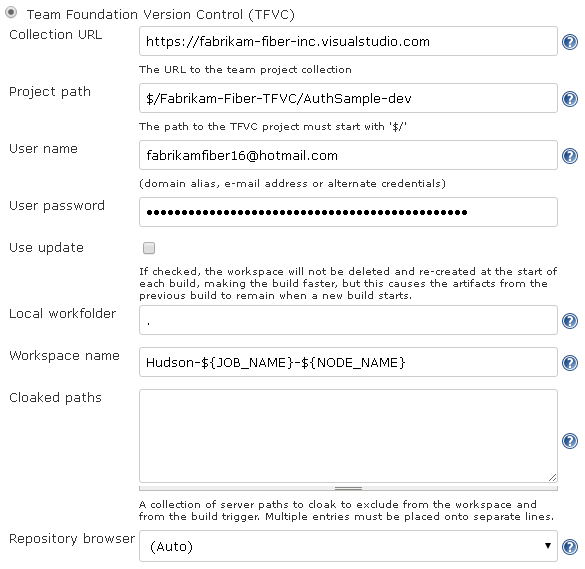
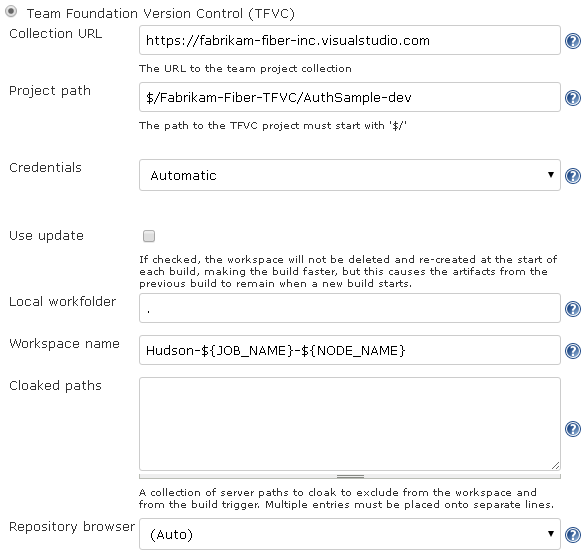
Update documentation and screenshot

diff --git a/README.md b/README.md
@@ -85,7 +85,7 @@ Versions 3.2.0 and earlier of the plugin required a command line tool to be inst
 
 ## Global configuration
 
-To make use of the Git integration with TFS/Team Services, it is necessary to first configure your team project collection(s).  Follow these instructions for each team project collection (most organizations will only have one).
+To make use of the Git integration with TFS/Team Services and/or to use automatic credentials configuration with the TFVC SCM, it is necessary to first configure your team project collection(s).  Follow these instructions for each team project collection (most organizations will only have one).
 
 1. Add credentials:
     1. Select **Jenkins** > **Credentials**
@@ -125,10 +125,11 @@ If your source code is in a TFVC repository, this section is for you.
 
 Field | Description
 ----- | -----------
-`Collection URL` | The URL to the [Team Project Collection](https://msdn.microsoft.com/en-us/library/dd236915(v=vs.120).aspx). Examples: `https://tfs02.codeplex.com`, `https://fabrikam-fiber-inc.visualstudio.com`, `http://tfs:8080/tfs/DefaultCollection`
+`Collection URL` | The URL to the [Team Project Collection](https://msdn.microsoft.com/en-us/library/dd236915(v=vs.120).aspx). If you added your team project collection(s) in the global configuration, the field will show you a list to pick from. Examples: `https://tfs02.codeplex.com`, `https://fabrikam-fiber-inc.visualstudio.com`, `http://tfs:8080/tfs/DefaultCollection`
 `Project path` | The Team Project and path to retrieve from the server. The project path must start with `$/`, and contain any sub path that exists in the project repository. Example: `$/Fabrikam-Fiber-TFVC/AuthSample-dev`
-`User name` | The name of the user that will be connecting to TFS/Team Services to query history, checkout files, etc. See _User name and password_ below for a full description.
-`User password` | The password, alternate password or personal access token associated with the user. See _User name and password_ below for more details.
+`Credentials` | If you added your team project collection(s) in the global configuration, select **Automatic** and the credentials will be looked up automatically, otherwise you can select **Manual** and configure the `User name` and `User password` fields.
+`Manual` > `User name` | The name of the user that will be connecting to TFS/Team Services to query history, checkout files, etc. See _User name and password_ below for a full description.
+`Manual` > `User password` | The password, alternate password or personal access token associated with the user. See _User name and password_ below for more details.
 `Use update` | If this option is checked, then the workspace and work folder will not be removed at the end of build. This makes the build faster, but artifacts remain between builds. If it is not checked, the plugin will create a workspace and map it to a local folder at the start of the build, and then delete the workspace at the end of the build.
 `Local workfolder` | The name of the local work folder. The specified folder will contain the files retrieved from the repository. Default is `.`, ie the files will be downloaded into the Hudson workspace folder.
 `Workspace name` | The name of the workspace that Jenkins should use when creating and deleting workspaces on the server. The workspace name supports three macros; `${JOB_NAME}` is replaced by the job name, `${USER_NAME}` is replaced by the user name Jenkins is running as and `${NODE_NAME}` is replaced by the name of the node. Default workspace name is `Hudson-${JOB_NAME}-${NODE_NAME}`.
